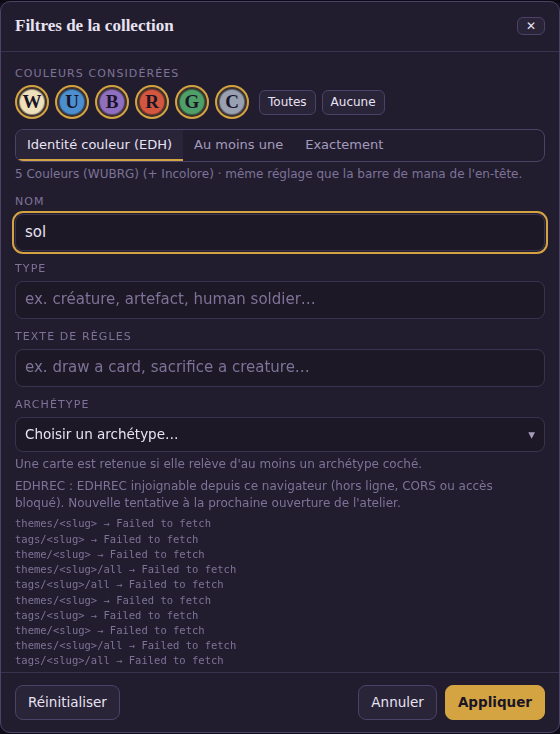
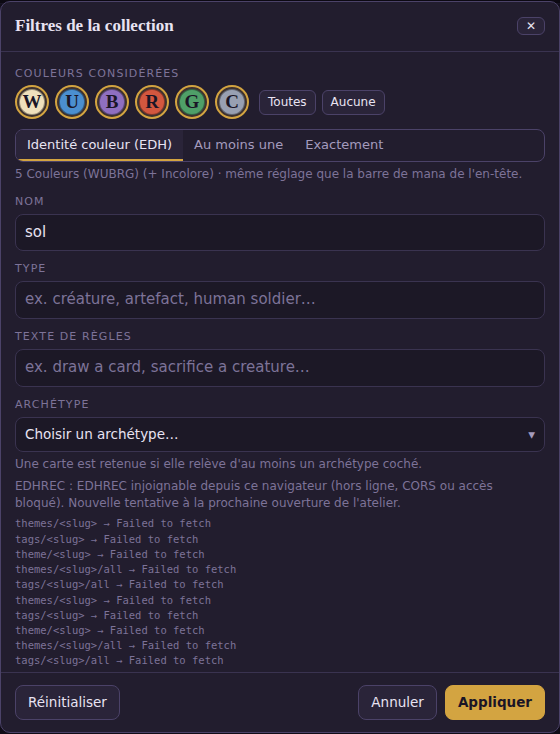
Fenêtre des filtres : plus de curseur placé d'office dans « Nom »
L'ouverture ne donne plus le focus au champ « Nom ». Le navigateur
applique son comportement habituel pour un <dialog> sans autofocus et
porte le focus sur la croix de fermeture — comme le font déjà les
fenêtres Format, Fiche de carte et Importer.

Claude-Session: https://claude.ai/code/session_01PNdD1zcCWEkkY25gnq5gh5

diff --git a/js/ui.js b/js/ui.js
@@ -641,8 +641,6 @@ function openFiltresModal() {
      <button type="button" class="btn" data-act="closeDialog">Annuler</button>
      <button type="button" class="btn pri" data-act="appliquerFiltres">Appliquer</button>`);
   filtresAvant = memo;
-  const champ = document.getElementById('f_nom');
-  if (champ) champ.focus();
 }
 
 function renderTop() {
